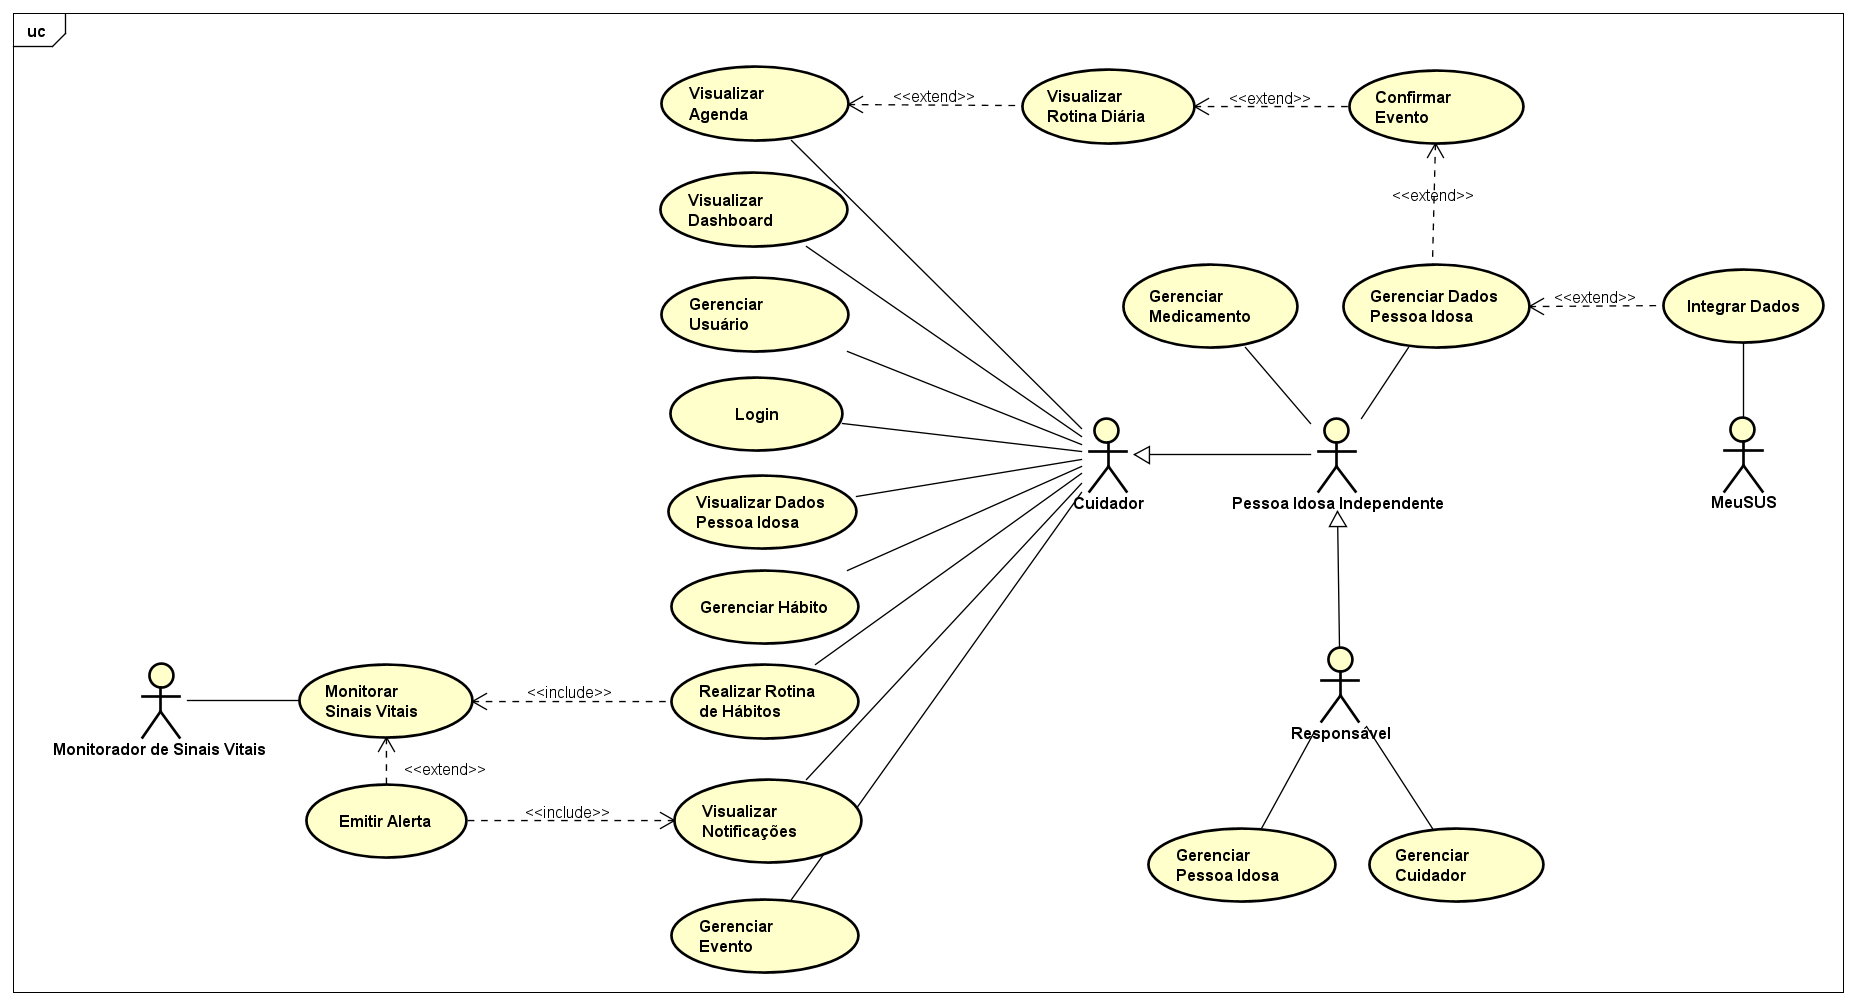
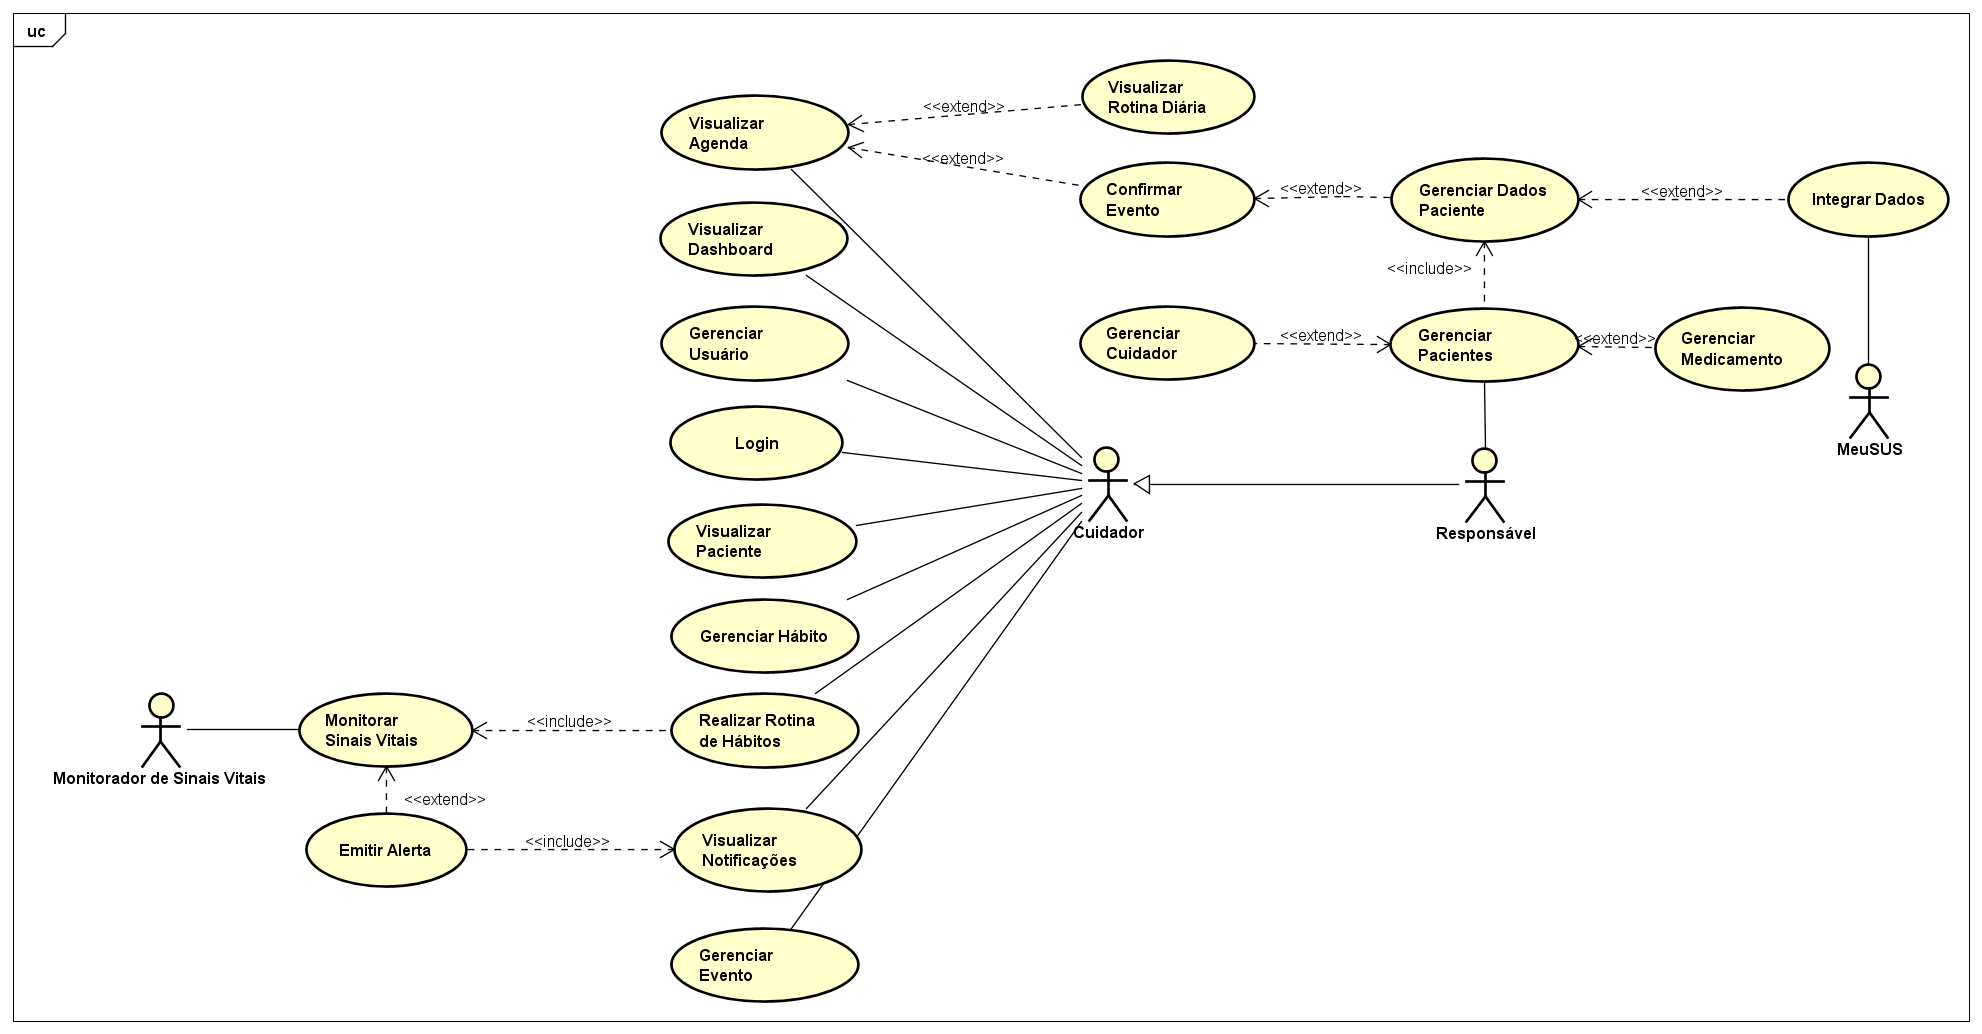
Atualizações Diagramas

diff --git a/README.md b/README.md
@@ -4,7 +4,7 @@
 Este repositório possui como objetivo centralizar todos os artefatos gerados para o sistema titulado como TINA, tal sistema foi pensando inicialmente no ano 2020 no curso Técnico de Informática para Internet (IF), em seguida foi aprimorado e repensado considerando as disciplinas, Análise Orientada a Objeto e Engenharia de Requisitos, do curso de Bacharelado em Técnologia da Informação (UFRN). Portanto o TINA, continuou seu desenvolvimento até o estado que se encontra hoje atualizado neste repositório. Inicialmente a aplicação foi pensada por um grupo de alunos do curso técnico, entretanto apenas a autora deste repositório continuou com o projeto de documentação, sendo por fim toda documentação de sua autoria.
 
 ## Problema
-A gestão manual das rotinas de saúde e bem-estar de pessoas idosas e/ou pessoas necessitadas de acompanhamento, apresentam diversos desafios a familiares e/ou cuidadores, como:
+A gestão manual das rotinas de saúde e bem-estar de pessoas idosas e/ou pessoas necessitadas de acompanhamento, definidas neste sistema como "Pacientes", apresentam diversos desafios a familiares e/ou cuidadores, como:
 
 - Falta de acompanhamento eficaz das atividades diárias;
 - Dificuldade em manter uma rotina saudável e organizada;
@@ -26,7 +26,6 @@ Para entendimento dos usuários do sistema e seus casos de uso, sugiro ler os di
     - **BPMN/**: Diagrama BPMN.
     - **UC/**: Diagrama de Caso de Uso.
     - **Estado/**: Diagramas de estado.
-    - **NFR/**: Diagramas NFR.
     - **UC/**: Diagramas de casos de uso.
   - **functional/**: Requisitos funcionais.
   - **non_functional/**: Requisitos não funcionais.
@@ -41,7 +40,6 @@ Para entendimento dos usuários do sistema e seus casos de uso, sugiro ler os di
 - **Medicamentos**: Cronograma de medicações utilizadas pelo paciente;
 - **Rotina Diária:**: Eventos, medicamentos e hábitos planejados para o dia.
 - **Alerta:** Notificação automática gerada pelo sistema para lembrar o usuário de eventos ou situações de risco.
-- **Prescrição Médica:** Documento com a indicação de medicamentos e dosagens recomendadas pelo médico do idoso, anexado ao perfil do usuário para controle de saúde.
 - **Solicitação:** Documento refente a solicitações médicas feitas em consultas, sendo exames ou encaminhamento.
 
 ## Legislações

diff --git a/docs/requirements/functional/REQ_11_gerenciar_paciente.md b/docs/requirements/functional/REQ_11_gerenciar_paciente.md
@@ -41,4 +41,4 @@
 - O sistema deve garantir a segurança das informações pessoais e de saúde da paciente, conforme políticas de privacidade e proteção de dados.
 
 **8. Diagramas**  
-- [BPMN](https://github.com/EnneLu/TINA-Requisitos/blob/main/docs/requirements/diagrams/BPMN/img/BPMN_02_GerenciarPessoaIdosa.png)
+- [BPMN](https://github.com/EnneLu/TINA-Requisitos/blob/main/docs/requirements/diagrams/BPMN/img/BPMN_02_GerenciarPaciente.png)

diff --git a/docs/requirements/diagrams/BPMN/BPMN.md b/docs/requirements/diagrams/BPMN/BPMN.md
@@ -14,6 +14,14 @@ Diagrama de BPMN relacionado ao fluxo de monitoramento de sinais vitais durante 
 
 ## 2. Descrição
 
+Diagrama de BPMN do cadastro de pacientes por parte do responsável.
+
+![diagrama NFR](img/BPMN_02_GerenciarPaciente.png)
+
+# Diagrama de BPMN: Gerenciar Evento
+
+## 2. Descrição
+
 Diagrama de BPMN do cadastro de pessoas idosas por parte do responsável.
 
 ![diagrama NFR](img/BPMN_02_GerenciarPessoaIdosa.png)

diff --git a/docs/requirements/diagrams/UC/UserCase.md b/docs/requirements/diagrams/UC/UserCase.md
@@ -8,4 +8,4 @@ title: Diagrama Caso de Uso
 
 Diagrama completo de caso de uso do sistema.
 
-![diagrama NFR](img/UC.png)
+![diagrama UC](img/UC.png)
